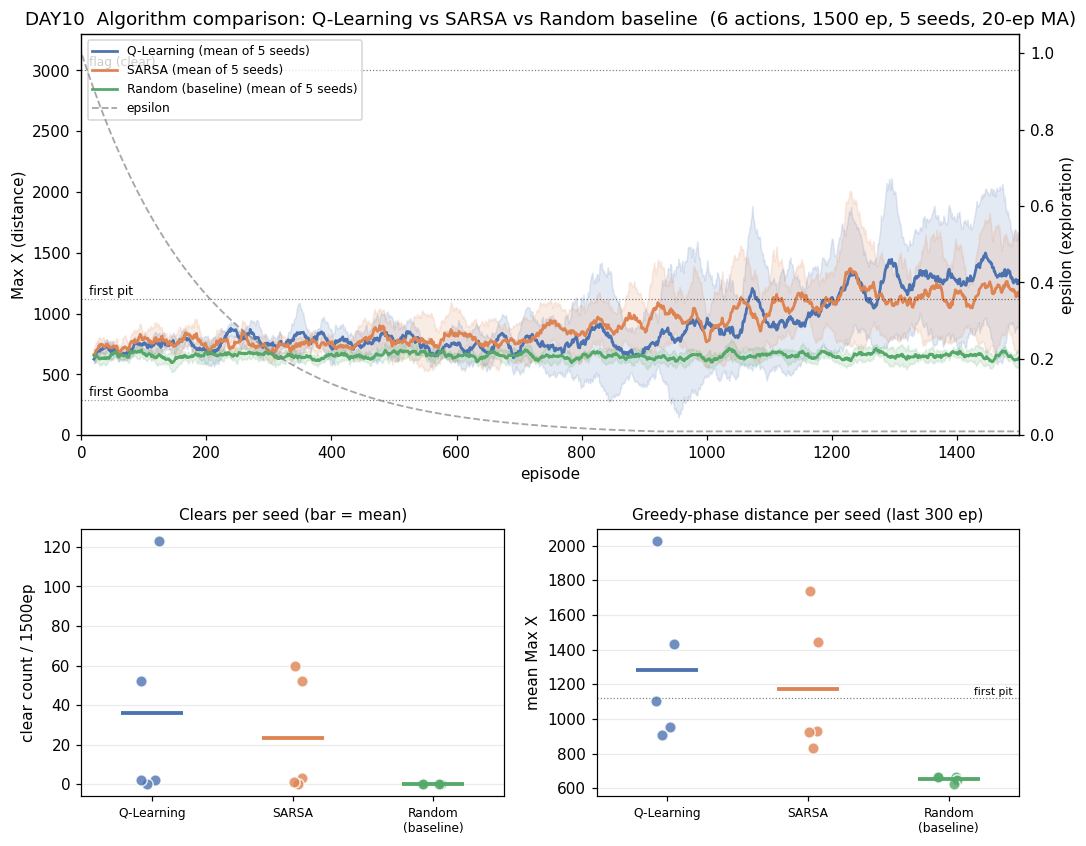
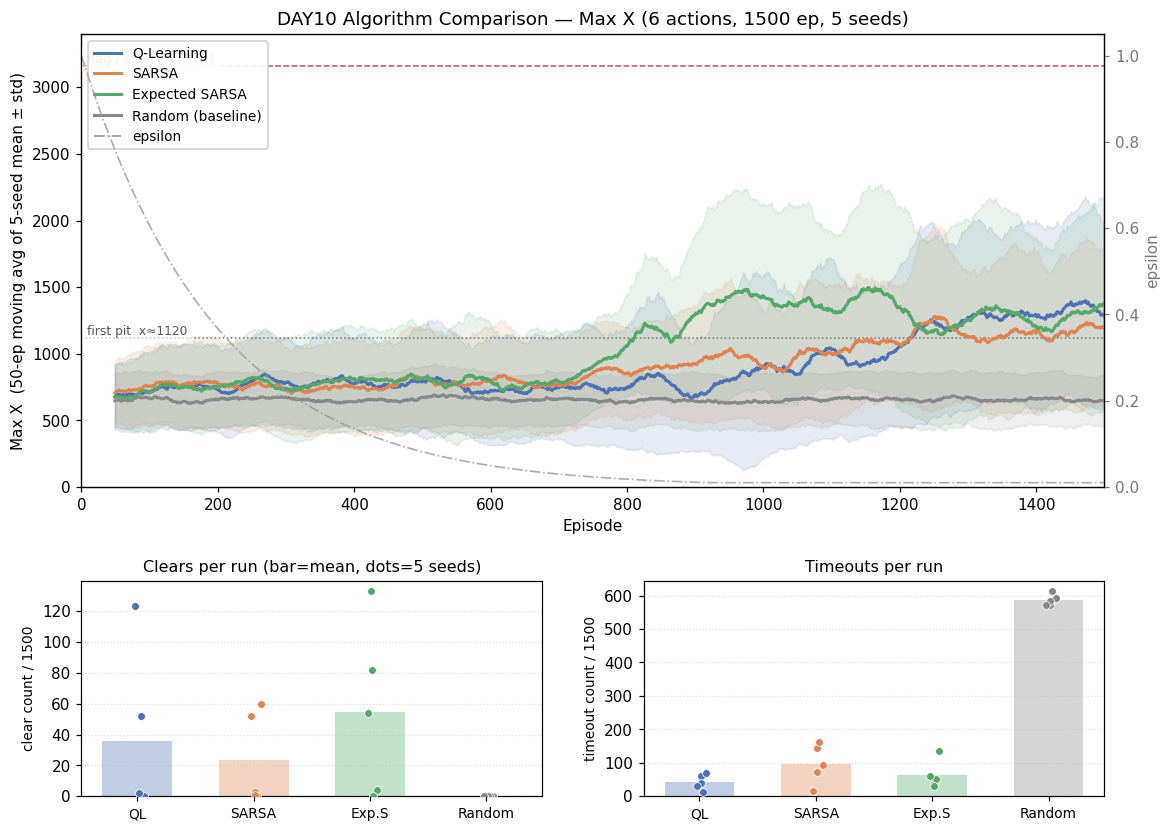
docs: DAY11 Expected SARSA 결과 + 일지 알고리즘별 분리
- 비교 챕터부터 일지를 알고리즘별 독립으로: DAY10(SARSA+랜덤), DAY11(Expected SARSA)
- DAY11 신규 일지에 트라이3 내용(가설/결과/결론) 이전, DAY10은 트라이3 제거 후 링크 연결
- 4개 알고리즘 5시드 재학습 결과로 비교 보드 Expected SARSA 행 + 한 줄 요약 갱신
- 그래프 day10-algorithm-comparison.png 4개 시계열 밴드+ε / clear·timeout 분포로 재생성
- README 알고리즘 표 Expected SARSA ✅ + 구조맵(ExpectedSARSA·RandomBrain) 갱신

diff --git a/docs/실험일지/[DAY11] 다른 두뇌 - Expected SARSA (알고리즘 비교 2).md b/docs/실험일지/[DAY11] 다른 두뇌 - Expected SARSA (알고리즘 비교 2).md
@@ -1,0 +1,73 @@
+# [DAY11] 다른 두뇌 — Expected SARSA (알고리즘 비교 ②)
+
+> 🎯 **같은 마리오, 다른 두뇌** — 알고리즘 비교 챕터의 두 번째 두뇌. [DAY10]에서 SARSA(on-policy)와 랜덤 바닥선을 봤고, 이번엔 SARSA의 "기댓값판" Expected SARSA.
+
+**배경** · [DAY10]에서 QL·SARSA는 **본선 무승부**였고, 랜덤 바닥선으로 *둘 다 진짜 학습*임을 확인했다. SARSA의 유일하게 견고한 차이는 **timeout↑**(on-policy "우물쭈물"). 이번엔 그 SARSA의 *분산 출처*를 직접 건드리는 변종을 붙인다.
+
+*가설은 실험 전에 먼저 쓴다(예측→검증).*
+
+---
+
+## 공통 설정 (알고리즘 간 고정)
+
+DAY10과 동일, **알고리즘만 바꾼다.** (자세한 고정값은 [알고리즘 비교 보드](./[비교]%20알고리즘%20비교%20보드.md) "고정 설정" 참조.)
+
+| 항목 | 값 |
+|---|---|
+| 상태·테이블 | 두 테이블(공통 108 + 위치 1080), α=0.1 · γ=0.99 |
+| epsilon | 1.0 → ×0.995/판 → 하한 0.01 |
+| 프레임 스킵 · 에피소드 | 2 · 1500 |
+| 행동 | **6개(긴 점프 OFF)** |
+| 시드 반복 | 5회 — 결론용 지표는 5회 분포로 |
+
+---
+
+## 🤔 왜 이 방향인가
+
+SARSA는 다음 상태를 "**실제로 고른** 행동 하나"의 Q로 부트스트랩한다 — 그 한 번의 선택이 랜덤(탐험)이면 목표에 그 운(분산)이 섞인다. **Expected SARSA**는 그 자리에 "다음 상태에서 **정책이 고를 행동들의 기댓값**"을 넣어, *같은 on-policy인데* 목표의 분산만 지운다. 부트스트랩 한 곳만 또 바꾸는 셈(QL=`max` · SARSA=실제 다음 · ExpectedSARSA=정책 기댓값).
+
+## 변경
+- `ExpectedSARSA extends TabularBrain` 추가 — `bootstrap` 한 줄만 다르다. ε-greedy 정책에서 best 하나는 `(1-ε)+ε/n`, 나머지는 각 `ε/n` 확률이므로 기댓값이 닫힌다:
+  ```
+  E[Q(s',·)] = (1-ε)·max_a Q(s',a) + ε·mean_a Q(s',a)
+  ```
+  (우리 `selectAction`은 동점 시 첫 best 하나만 greedy로 고르므로 `(1-ε)`는 그 하나에만 — 정책과 정확히 일치.)
+- `-Dmario.algo=expected_sarsa`(+ `Main.createBrain` 분기). 비교는 동일하게 **6행동·1500판·시드 1~5**.
+
+## 가설
+- 목표 분산이 줄어 갱신이 더 안정적 → SARSA보다 **timeout↓·시드 간 분산↓**를 기대(SARSA의 "우물쭈물"이 운 섞임이라면 완화될 것).
+- 단 ε이 0.01로 작아지면 `(1-ε)·max + ε·mean ≈ max` = Q-Learning과 거의 같아진다. 후반이 거의 greedy인 이 환경에선 **셋 다 본선 무승부**일 가능성이 높다 — 그래도 **바닥선(Random) 위로는 분리**돼야 진짜 학습([DAY10] 트라이2 잣대).
+- 판정은 5시드 분포 겹침으로(DAY9 교훈).
+
+## 결과 — 6행동·1500판·5시드 (4개 알고리즘 같은 시드 1~5)
+
+**시드별 (분산 그대로)**
+
+| 지표 | Expected SARSA (s1~s5) |
+|---|---|
+| clear | 82 · 4 · 0 · 133 · 54 |
+| timeout | 36 · 135 · 53 · 30 · 61 |
+
+**분포 (mean ± std [min~max])** — 기존 비교군과 나란히
+
+| 지표 | Q-Learning | SARSA | **Expected SARSA** | Random |
+|---|---|---|---|---|
+| clear | 35.8 ± 48 | 23.2 ± 27 | **54.6 ± 50 [0~133]** | 0 |
+| 평균 Max X (후반 300판) | 1284 ± 414 | 1173 ± 354 | **1268 ± 493 [707~1959]** | 654 ± 17 |
+| best Max X | 3023 ± 276 | 3023 ± 276 | **3099 ± 124** (4/5 깃발) | 2109 ± 275 |
+| **timeout** | 43 ± 21 | **97 ± 52** | **63 ± 38 [30~135]** | 588 ± 15 |
+| dead_pit | 293 ± 108 | 383 ± 87 | **369 ± 67** | 48 ± 5 |
+
+*(4개 알고리즘 모두 maxX를 Java·Python 양쪽 로그에서 교차검증 — 불일치 0판. 같은 시드 재학습이라 QL·SARSA·Random 숫자는 기존 보드값을 결정적으로 재현. 원본 로그는 `mario_training_logs/day10/`에 영구 보관 → 재학습 없이 그래프 재생성 가능.)*
+
+![4 알고리즘 비교](images/day10-algorithm-comparison.png)
+
+- **본선(clear·거리·best)은 또 무승부.** Expected SARSA clear 54.6은 평균이 가장 높아 보이지만 std가 50(평균만큼) — QL·SARSA와 분포 완전히 겹친다. 여기서도 **seed4가 폭발**(133, DAY9 seed4 재현) = 시드 영향 ≫ 알고리즘. 평균 Max X·best도 동급.
+- **바닥선 위로는 분리.** Expected SARSA 후반 거리 최솟값 707 > Random 최댓값 667 → 진짜 학습(분산 아님) 확인.
+- **timeout만 기운다 = 가설 핵심.** Expected SARSA 63은 SARSA 97보다 확실히 낮아 **QL(43)과 SARSA(97) 사이**로 내려왔다. SARSA의 "우물쭈물"(timeout)이 정책 기댓값으로 완화됐다.
+
+## 결론
+
+- **가설 ① (timeout↓) 부분 적중.** Expected SARSA의 timeout(63)은 SARSA(97)보다 낮아 QL 쪽으로 되돌아왔다. "실제로 고른 다음 행동 하나"가 섞던 운(분산)을 **정책 기댓값 `(1-ε)·max + ε·mean`이 지우니**, on-policy의 보수성이 *못 끝냄*으로 새던 부분이 메커니즘대로 줄었다. (단 분포 [30~135]가 SARSA·QL과 겹쳐 견고한 차이는 아님.)
+- **가설 ② (시드 분산↓) 기각.** clear std 50으로 오히려 QL·SARSA보다 크다. 목표의 분산을 줄여도 *최종 성능의 시드 분산*은 안 줄었다 — 분산의 출처가 목표 추정이 아니라 환경·탐험·greedy 고착이라는 뜻.
+- **챕터 메시지 재확인.** 세 번째 두뇌도 **본선 무승부 + 바닥선 위 분리**. Expected SARSA는 "SARSA의 timeout 성향만 QL 쪽으로 완화, 본선은 그대로"로 보드에 박제한다. → [비교 보드](./[비교]%20알고리즘%20비교%20보드.md)에 4번째 행 추가. 다음 두뇌 = Monte Carlo·진화(GA/ES)도 같은 바닥선 위에 쌓는다.

diff --git a/docs/실험일지/[비교] 알고리즘 비교 보드.md b/docs/실험일지/[비교] 알고리즘 비교 보드.md
@@ -27,8 +27,8 @@
 |---|---|---|---|---|---|---|---|
 | **Q-Learning** (기준 학습기) | off-policy TD | 35.8 ± 47.8<br>[0~123] | 1284 ± 414<br>[907~2027] | 3023 ± 276 | 43 ± 21<br>[13~71] | 293 ± 108 | 기준점. 분산이 매우 큼(클리어 0~123). |
 | **SARSA** | on-policy TD | 23.2 ± 26.9<br>[0~60] | 1173 ± 354<br>[830~1736] | 3023 ± 276 | **97 ± 52**<br>[15~162] | 383 ± 87 | 본선 무승부. timeout만 ~2배 높음(우물쭈물). |
+| **Expected SARSA**<br>([DAY11](./[DAY11]%20다른%20두뇌%20-%20Expected%20SARSA%20(알고리즘%20비교%202).md)) | on-policy TD<br>(기댓값) | 54.6 ± 49.9<br>[0~133] | 1268 ± 493<br>[707~1959] | 3099 ± 124 | **63 ± 38**<br>[30~135] | 369 ± 67 | 본선 무승부. timeout이 SARSA(97)→QL(43) 사이로 완화. |
 | **Random** (🔻바닥선) | 무학습 | **0 ± 0**<br>[0~0] | **654 ± 17**<br>[624~667] | 2109 ± 275 | **588 ± 16**<br>[572~614] | 48 ± 5 | 학습 0. 깃발 한 번도 못 닿음·거리 절반·~39% timeout. |
-| *Expected SARSA* | *(예정)* | | | | | | |
 | *Monte Carlo* | *(예정)* | | | | | | |
 | *진화(GA/ES)* | *(예정)* | | | | | | |
 
@@ -40,9 +40,10 @@
 
 ## 한 줄 요약 (지금까지)
 
-- **QL vs SARSA = 무승부.** clear·거리·best 분포가 완전히 겹친다(시드 영향 ≫ 알고리즘, DAY9 재현). 유일한 견고한 차이 = SARSA의 timeout 성향.
-- **하지만 둘 다 Random은 깨끗이 이긴다.** Random은 깃발 0·거리 654±17인데, QL·SARSA 거리 최솟값(907·830) > Random 최댓값(667) — 학습군과 바닥선이 안 겹친다. → 클리어·거리 모두 *진짜 학습*(분산 아님).
-- **읽는 법**: "둘 중 누가 낫나"(분산에 묻힘)가 아니라 **"각 두뇌가 바닥선 위 어디냐"**.
+- **세 학습기(QL·SARSA·Expected SARSA) = 본선 무승부.** clear·거리·best 분포가 완전히 겹친다(시드 영향 ≫ 알고리즘, DAY9 재현). 셋 다 seed4가 폭발하는 등 시드가 성능을 좌우.
+- **하지만 셋 다 Random은 깨끗이 이긴다.** Random은 깃발 0·거리 654±17인데, 세 학습기 거리 최솟값(907·830·707) > Random 최댓값(667) — 학습군과 바닥선이 안 겹친다. → 클리어·거리 모두 *진짜 학습*(분산 아님).
+- **견고한 차이는 timeout뿐.** SARSA 97(on-policy 우물쭈물) → Expected SARSA 63(정책 기댓값으로 완화) → QL 43. on/off-policy 성향이 timeout 축에서만 드러난다.
+- **읽는 법**: "누가 낫나"(분산에 묻힘)가 아니라 **"각 두뇌가 바닥선 위 어디냐"**.
 
 ---
 
@@ -53,4 +54,4 @@
 3. 각 시드 Python `[Ep N] status=…maxX=…` 로그 집계 → 이 표에 **분포(mean ± std [min~max])** 한 줄 추가.
 4. 자세한 가설·과정은 해당 DAY 일지에, 결론 숫자만 여기.
 
-> 관련: [[DAY10] SARSA](./[DAY10]%20다른%20두뇌%20-%20SARSA%20(알고리즘%20비교%201).md) · [실험일지 소개](./실험일지-소개.md)
+> 관련: [[DAY10] SARSA·랜덤](./[DAY10]%20다른%20두뇌%20-%20SARSA%20(알고리즘%20비교%201).md) · [[DAY11] Expected SARSA](./[DAY11]%20다른%20두뇌%20-%20Expected%20SARSA%20(알고리즘%20비교%202).md) · [실험일지 소개](./실험일지-소개.md)

diff --git a/docs/실험일지/[DAY10] 다른 두뇌 - SARSA (알고리즘 비교 1).md b/docs/실험일지/[DAY10] 다른 두뇌 - SARSA (알고리즘 비교 1).md
@@ -4,7 +4,7 @@
 
 **배경** · 표 Q-Learning은 1-1 클리어로 목표 달성, 더 튜닝해도 분산에 묻힌다(DAY9). 소켓 뒤 Python(게임·보상·측정)은 *누가 행동을 정하는지* 모르므로, **Java 두뇌만 갈아끼우면** 같은 환경에서 알고리즘을 비교할 수 있다. → 새 챕터 = "여러 두뇌 대결."
 
-**이번** · 두뇌를 교체 가능하게 `Brain` 인터페이스로 빼고(`-Dmario.algo`), 첫 다른 알고리즘으로 **SARSA**를 붙인다. (나머지 — Expected SARSA·Monte Carlo·기준선·진화 — 는 다음 트라이로 하나씩.)
+**이번** · 두뇌를 교체 가능하게 `Brain` 인터페이스로 빼고(`-Dmario.algo`), 첫 다른 알고리즘으로 **SARSA**(트라이1)를 붙이고, 비교를 읽는 잣대로 **랜덤 바닥선**(트라이2)을 세운다. (다음 두뇌 — Expected SARSA·Monte Carlo·진화 — 부터는 [[DAY11]](./[DAY11]%20다른%20두뇌%20-%20Expected%20SARSA%20(알고리즘%20비교%202).md)처럼 알고리즘별 독립 일지로.)
 
 *가설은 실험 전에 먼저 쓴다(예측→검증).*
 
@@ -114,29 +114,4 @@ DAY9와 동일, **알고리즘만 바꾼다.**
 
 ---
 
-## 트라이 3 — Expected SARSA (on-policy, 기댓값판)
-
-### 🤔 왜 이 방향인가
-
-SARSA는 다음 상태를 "**실제로 고른** 행동 하나"의 Q로 부트스트랩한다 — 그 한 번의 선택이 랜덤(탐험)이면 목표에 그 운(분산)이 섞인다. **Expected SARSA**는 그 자리에 "다음 상태에서 **정책이 고를 행동들의 기댓값**"을 넣어, *같은 on-policy인데* 목표의 분산만 지운다. 부트스트랩 한 곳만 또 바꾸는 셈(QL=`max` · SARSA=실제 다음 · ExpectedSARSA=정책 기댓값).
-
-### 변경
-- `ExpectedSARSA extends TabularBrain` 추가 — `bootstrap` 한 줄만 다르다. ε-greedy 정책에서 best 하나는 `(1-ε)+ε/n`, 나머지는 각 `ε/n` 확률이므로 기댓값이 닫힌다:
-  ```
-  E[Q(s',·)] = (1-ε)·max_a Q(s',a) + ε·mean_a Q(s',a)
-  ```
-  (우리 `selectAction`은 동점 시 첫 best 하나만 greedy로 고르므로 `(1-ε)`는 그 하나에만 — 정책과 정확히 일치.)
-- `-Dmario.algo=expected_sarsa`(+ `Main.createBrain` 분기). 비교는 동일하게 **6행동·1500판·시드 1~5**.
-
-### 가설
-- 목표 분산이 줄어 갱신이 더 안정적 → SARSA보다 **timeout↓·시드 간 분산↓**를 기대(SARSA의 "우물쭈물"이 운 섞임이라면 완화될 것).
-- 단 ε이 0.01로 작아지면 `(1-ε)·max + ε·mean ≈ max` = Q-Learning과 거의 같아진다. 후반이 거의 greedy인 이 환경에선 **셋 다 본선 무승부**일 가능성이 높다 — 그래도 **바닥선(Random) 위로는 분리**돼야 진짜 학습(트라이2 잣대).
-- 판정은 5시드 분포 겹침으로(DAY9 교훈).
-
-### 결과 — 6행동·1500판·5시드
-
-*(학습 후 작성)*
-
-### 결론
-
-*(학습 후 작성)*
+> ▶ 비교 챕터의 다음 두뇌부터는 **알고리즘별 독립 일지**로 쌓는다. 세 번째 두뇌 Expected SARSA: [[DAY11] Expected SARSA](./[DAY11]%20다른%20두뇌%20-%20Expected%20SARSA%20(알고리즘%20비교%202).md)
